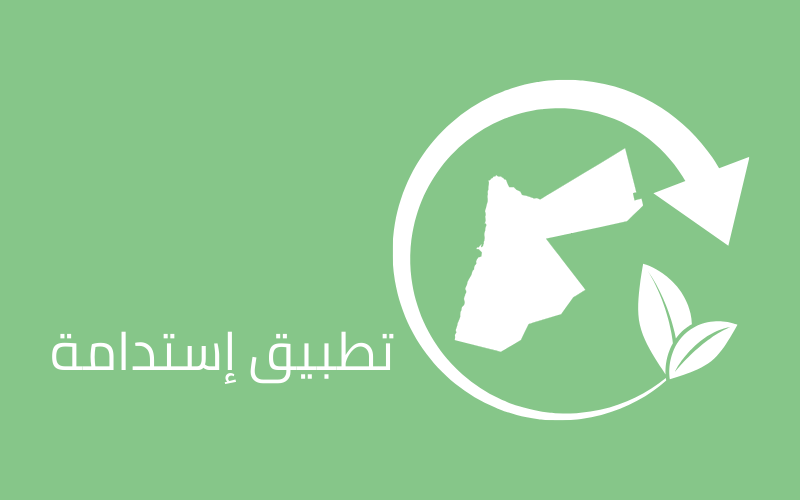
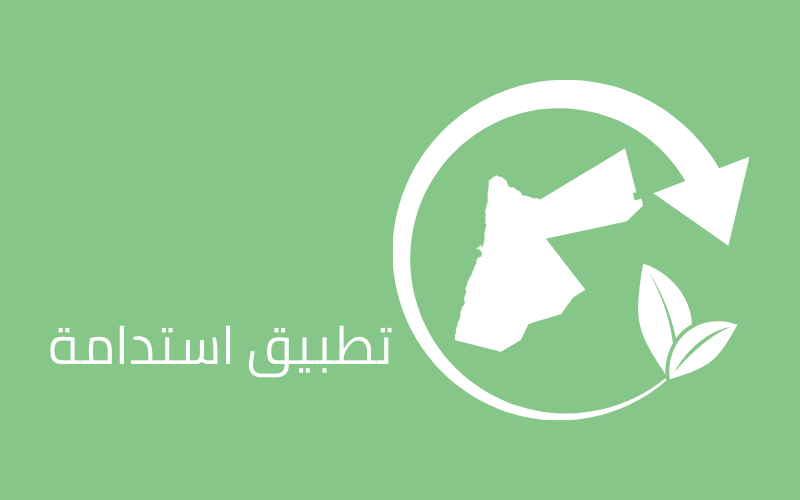
notification

Changed region(s): [[0.0625, 0.66, 0.5, 0.78]]

diff --git a/lib/ui/pages/main_pages/activities.dart b/lib/ui/pages/main_pages/activities.dart
@@ -6,54 +6,60 @@ import 'package:madenati/controllers/mycomplains_controller.dart';
 import 'package:madenati/ui/pages/main_pages/my_volunteering_req.dart';
 import 'package:madenati/ui/widgets/appbar_widget.dart';
 import 'my_complains.dart';
+import 'my_recycling_req.dart';
 
 class Activities extends StatelessWidget {
   Activities({Key? key}) : super(key: key);
 
   @override
   Widget build(BuildContext context) {
-    Size size=MediaQuery.of(context).size;
+    Size size = MediaQuery.of(context).size;
     MyComplainsController myComplainsController = Get.find();
+
     return Scaffold(
-        appBar: defaultAppBar(context: context, title: 'نشاطاتي', isHome: true),
-        body: Obx(
-          () => Column(
-            children: [
-              Container(
-                height: size.height*0.11,
-                decoration: BoxDecoration(color: Colors.grey[100], boxShadow: [
-                  BoxShadow(
-                    color: Colors.grey.withOpacity(0.3),
-                    spreadRadius: 5,
-                    blurRadius: 10,
-                    offset: Offset(0, 5), // changes position of shadow
-                  ),
-                ]),
-                child: Row(
+      appBar: defaultAppBar(context: context, title: 'نشاطاتي', isHome: true),
+      body: Column(
+        children: [
+          Container(
+            height: size.height * 0.11,
+            decoration: BoxDecoration(
+              color: Colors.grey[100],
+              boxShadow: [
+                BoxShadow(
+                  color: Colors.grey.withOpacity(0.3),
+                  spreadRadius: 5,
+                  blurRadius: 10,
+                  offset: Offset(0, 5), // changes position of shadow
+                ),
+              ],
+            ),
+            child: Obx(() => Row(
                   mainAxisAlignment: MainAxisAlignment.center,
                   children: [
                     Expanded(
                       child: Padding(
                         padding: const EdgeInsets.only(
-                            top: 15, left: 15, right: 7.5, bottom: 15),
+                            top: 10, left: 7, right: 3.5, bottom: 10),
                         child: GestureDetector(
                           onTap: () {
-                            myComplainsController.changeIsComplain();
+                            myComplainsController.changeSelectedPage(0);
                           },
                           child: Container(
                             height: 80,
                             decoration: BoxDecoration(
-                                color: myComplainsController.isComplain.value
-                                    ? Colors.green[400]
-                                    : Colors.grey,
-                                borderRadius: BorderRadius.circular(20)),
+                              color:
+                                  myComplainsController.selectedPage.value == 0
+                                      ? Colors.green[400]
+                                      : Colors.grey,
+                              borderRadius: BorderRadius.circular(20),
+                            ),
                             child: Center(
                               child: Text(
                                 'الشكاوي',
                                 style: TextStyle(
                                   color: Colors.white,
                                   fontFamily: 'Cairo',
-                                  fontSize: 18,
+                                  fontSize: 15,
                                 ),
                               ),
                             ),
@@ -64,25 +70,58 @@ class Activities extends StatelessWidget {
                     Expanded(
                       child: Padding(
                         padding: const EdgeInsets.only(
-                            top: 15, left: 7.5, right: 15, bottom: 15),
+                            top: 10, left: 3.5, right: 3.5, bottom: 10),
                         child: GestureDetector(
                           onTap: () {
-                            myComplainsController.changeIsComplain();
+                            myComplainsController.changeSelectedPage(1);
                           },
                           child: Container(
                             height: 80,
                             decoration: BoxDecoration(
-                                color: myComplainsController.isComplain.value
-                                    ? Colors.grey
-                                    : Colors.green[400],
-                                borderRadius: BorderRadius.circular(20)),
+                              color:
+                                  myComplainsController.selectedPage.value == 1
+                                      ? Colors.green[400]
+                                      : Colors.grey,
+                              borderRadius: BorderRadius.circular(20),
+                            ),
                             child: Center(
                               child: Text(
                                 'طلبات التطوع',
                                 style: TextStyle(
                                   color: Colors.white,
                                   fontFamily: 'Cairo',
-                                  fontSize: 18,
+                                  fontSize: 15,
+                                ),
+                              ),
+                            ),
+                          ),
+                        ),
+                      ),
+                    ),
+                    Expanded(
+                      child: Padding(
+                        padding: const EdgeInsets.only(
+                            top: 10, left: 3.5, right: 7, bottom: 10),
+                        child: GestureDetector(
+                          onTap: () {
+                            myComplainsController.changeSelectedPage(2);
+                          },
+                          child: Container(
+                            height: 80,
+                            decoration: BoxDecoration(
+                              color:
+                                  myComplainsController.selectedPage.value == 2
+                                      ? Colors.green[400]
+                                      : Colors.grey,
+                              borderRadius: BorderRadius.circular(20),
+                            ),
+                            child: Center(
+                              child: Text(
+                                'صفحة جديدة',
+                                style: TextStyle(
+                                  color: Colors.white,
+                                  fontFamily: 'Cairo',
+                                  fontSize: 15,
                                 ),
                               ),
                             ),
@@ -91,13 +130,20 @@ class Activities extends StatelessWidget {
                       ),
                     ),
                   ],
-                ),
-              ),
-              myComplainsController.isComplain.value
-                  ? Expanded(child: MyComplains())
-                  : Expanded(child: MyVolunteeringReq())
-            ],
+                )),
           ),
-        ));
+          Expanded(
+            child: Obx(() => IndexedStack(
+                  index: myComplainsController.selectedPage.value,
+                  children: [
+                    MyComplains(),
+                    MyVolunteeringReq(),
+                    MyRecyclingReq(),
+                  ],
+                )),
+          ),
+        ],
+      ),
+    );
   }
 }

diff --git a/lib/constants/texts.dart b/lib/constants/texts.dart
@@ -2,7 +2,7 @@ String volunteeringText =
     'التطوع لصالح وزارة البيئة في الأردن يمثل فرصة ممتازة للمواطنين الراغبين في المساهمة في الحفاظ على البيئة والمساهمة في الجهود الوطنية للحفاظ على جمال ونظافة البيئة الطبيعية في المملكة. يمكن للمتطوعين المشاركة في مجموعة متنوعة من الأنشطة البيئية، مثل زراعة الأشجار والنباتات في الحدائق العامة، والمساعدة في إزالة النفايات والمخلفات من الأماكن العامة، ومراقبة الحياة البرية، والتوعية بمشاكل البيئة. \n\nتعتبر جهود التطوع للحفاظ على البيئة في الأردن مهمة جداً لمواجهة التحديات البيئية الحالية. بفضل التعاون المستمر بين المتطوعين ووزارة البيئة، يمكن تحقيق تحسينات كبيرة في البيئة والمساهمة في خلق مجتمع أكثر نظافة وصحة. من خلال القيام بأنشطة مثل تجميل الحدائق وإزالة النفايات، يمكن للتطوعين أن يكونوا جزءًا من الحلول لمشاكل البيئة في الأردن. \n\nلذا، إذا كنت مهتمًا بالمشاركة في جهود الحفاظ على البيئة ودعم جهود وزارة البيئة في الأردن، فلديك فرصة رائعة للتطوع وإحداث تأثير إيجابي كبير. يتطلب التطوع فقط العزيمة والرغبة في المساهمة في جعل البيئة أفضل مكان للجميع. بفضل جهود المتطوعين، يمكننا العمل معًا للمحافظة على الطبيعة الجميلة وتوفير مستقبل أفضل للأجيال القادمة.';
 
 String aboutAppText =
-    'يعد تطبيق "إستدامة" رفيقك المثالي في رحلتك نحو خدمة البيئة والمشاركة في جعل عالمنا أفضل. يوفر التطبيق فرصًا متعددة للتطوع والمساهمة في حفظ وتحسين البيئة والبنية التحتية البيئية في مجتمعك. سواء كنت ترغب في زراعة الأشجار، أو إزالة النفايات، أو حتى التبليغ عن قضايا بيئية مثل تلوث الهواء أو نقص حاويات القمامة، يمكنك القيام بكل ذلك من خلال تطبيق "إستدامة" بكل سهولة.\n\nتتيح لك الواجهة السهلة والبسيطة في التطبيق تصفح العديد من الفرص التطوعية المتاحة في منطقتك والمساهمة بشكل فعال في جعل المجتمع مكانًا أفضل للجميع. يمكنك أيضًا استخدام التطبيق لتقديم الشكاوي حول قضايا البيئة التي تواجهها، مما يساعد في تحسين جودة الحياة والبيئة في محيطك. بالإضافة إلى ذلك، يمكنك المشاركة في جهود إعادة التدوير للمواد والمساهمة في استدامة الموارد الطبيعية. \n\nتطبيق "إستدامة" هو شريكك القوي في رحلتك نحو خدمة المجتمع والبيئة، ويسهل عليك الوصول إلى الفرص والأنشطة التي تهمك، والمساهمة بشكل فعّال في تحقيق تغيير إيجابي في عالمنا البيئي.';
+    'يعد تطبيق "استدامة" رفيقك المثالي في رحلتك نحو خدمة البيئة والمشاركة في جعل عالمنا أفضل. يوفر التطبيق فرصًا متعددة للتطوع والمساهمة في حفظ وتحسين البيئة والبنية التحتية البيئية في مجتمعك. سواء كنت ترغب في زراعة الأشجار، أو إزالة النفايات، أو حتى التبليغ عن قضايا بيئية مثل تلوث الهواء أو نقص حاويات القمامة، يمكنك القيام بكل ذلك من خلال تطبيق "استدامة" بكل سهولة.\n\nتتيح لك الواجهة السهلة والبسيطة في التطبيق تصفح العديد من الفرص التطوعية المتاحة في منطقتك والمساهمة بشكل فعال في جعل المجتمع مكانًا أفضل للجميع. يمكنك أيضًا استخدام التطبيق لتقديم الشكاوي حول قضايا البيئة التي تواجهها، مما يساعد في تحسين جودة الحياة والبيئة في محيطك. بالإضافة إلى ذلك، يمكنك المشاركة في جهود إعادة التدوير للمواد والمساهمة في استدامة الموارد الطبيعية. \n\nتطبيق "استدامة" هو شريكك القوي في رحلتك نحو خدمة المجتمع والبيئة، ويسهل عليك الوصول إلى الفرص والأنشطة التي تهمك، والمساهمة بشكل فعّال في تحقيق تغيير إيجابي في عالمنا البيئي.';
 
 String recyclingText =
     'إعادة التدوير هي ممارسة بيئية ضرورية للحفاظ على جمال وصحة الأردن. تواجه الأردن تحديات بيئية متزايدة نتيجة لزيادة النفايات واستنزاف الموارد الطبيعية. إعادة التدوير تلعب دورًا حيويًا في تقليل النفايات والمحافظة على الموارد. بالمشاركة في عمليات إعادة التدوير، نساهم جميعًا في الحفاظ على جوانب الطبيعة الرائعة للأردن، مثل البيئات الصحراوية والأماكن السياحية الرائعة. \n\nتعتبر المشاركة في عمليات إعادة التدوير في الأردن جزءًا لا يتجزأ من الجهود الوطنية للحفاظ على البيئة وتحقيق التنمية المستدامة. بالتعاون مع وزارة البيئة ومنظمات بيئية محلية، يمكن للمواطنين والمقيمين في الأردن المساهمة بشكل فعال في جعل الأردن أكثر نظافة وصحة. من خلال إعادة التدوير، نشارك في بناء مستقبل أفضل للأجيال القادمة ونحمي تراثنا البيئي الغني في هذا البلد الرائع.';

diff --git a/lib/ui/pages/main_pages/my_complains.dart b/lib/ui/pages/main_pages/my_complains.dart
@@ -58,13 +58,14 @@ class MyComplains extends StatelessWidget {
                                       child: separator(),
                                     ),
                                 itemBuilder: (context, index) {
-                                  if (snapshot.data['data'][index].length != 0) {
+                                  if (snapshot.data['data'][index].length !=
+                                      0) {
                                     controller.complainList.value = snapshot
                                         .data['data']
                                         .map<ComplainsModel>((complainData) =>
                                             ComplainsModel.fromJson(
                                                 complainData))
-                                        .toList(); 
+                                        .toList();
                                     return Obx(() =>
                                         controller.complainList.isNotEmpty
                                             ? myComplainItem(
@@ -97,7 +98,7 @@ class MyComplains extends StatelessWidget {
             'لم تقم بتقديم أي شكوى حتى الآن',
             style: TextStyle(
               fontFamily: 'Cairo',
-              fontSize: 15,
+              fontSize: 13,
             ),
           ),
           SizedBox(
@@ -106,7 +107,7 @@ class MyComplains extends StatelessWidget {
           Icon(
             Icons.warning,
             color: Colors.red,
-            size: 30,
+            size: 27,
           )
         ],
       ),

diff --git a/lib/firebase_messeging.dart b/lib/firebase_messeging.dart
@@ -1,0 +1,20 @@
+import 'dart:developer';
+import 'package:firebase_messaging/firebase_messaging.dart';
+
+final FirebaseMessaging firebaseMessaging = FirebaseMessaging.instance;
+
+void initFirebaseMessaging() {
+  firebaseMessaging.getToken().then((token) {
+    log('FCM Token: $token');
+  });
+
+  FirebaseMessaging.onMessage.listen((RemoteMessage message) {
+    // Handle when the app is in the foreground and receives a notification
+    log('FCM Message: ${message.notification?.body}');
+  });
+
+  FirebaseMessaging.onMessageOpenedApp.listen((RemoteMessage message) {
+    // Handle when the user taps the notification while the app is in the background
+    log('FCM Message opened app: ${message.notification?.body}');
+  });
+}

diff --git a/lib/ui/pages/main_pages/my_recycling_req.dart b/lib/ui/pages/main_pages/my_recycling_req.dart
@@ -4,10 +4,10 @@ import 'package:flutter/widgets.dart';
 import 'package:get/get.dart';
 import 'package:madenati/controllers/mycomplains_controller.dart';
 
-class MyVolunteeringReq extends StatelessWidget {
-  MyVolunteeringReq({super.key});
+class MyRecyclingReq extends StatelessWidget {
+  MyRecyclingReq({super.key});
 // THIS PAGE IS CONNECTED TO THE MYT COMPLAINS CONTROLLER
-// MYVOLUNTEERING AND MYCOMPLAINS AND RECYCLING ORDERS BELONG TO THE MY COMPLAINS CONTROLLER
+// MYRecycling AND MYCOMPLAINS AND RECYCLING ORDERS BELONG TO THE MY COMPLAINS CONTROLLER
   MyComplainsController complainsController = Get.find();
   @override
   Widget build(BuildContext context) {

diff --git a/lib/main.dart b/lib/main.dart
@@ -18,6 +18,7 @@ import 'package:madenati/ui/pages/on_boarding.dart';
 import 'controllers/complains_controller.dart';
 import 'controllers/recycling_controller.dart';
 import 'db/local/shared_preference.dart';
+import 'firebase_messeging.dart';
 import 'ui/pages/authentication/login.dart';
 import 'ui/pages/main_pages/complains.dart';
 import 'ui/pages/main_pages/profile.dart';
@@ -33,6 +34,7 @@ void main() async {
   await Firebase.initializeApp(
     options: DefaultFirebaseOptions.currentPlatform,
   );
+  initFirebaseMessaging();
   runApp(const myApp());
 }
 

diff --git a/lib/controllers/mycomplains_controller.dart b/lib/controllers/mycomplains_controller.dart
@@ -9,10 +9,10 @@ import 'package:madenati/ui/widgets/toast_widget.dart';
 // import '../constants/hotlinks.dart';
 
 class MyComplainsController extends GetxController {
-  RxBool isComplain = true.obs;
+  RxInt selectedPage = 0.obs;
 
-  void changeIsComplain() {
-    isComplain.value = !isComplain.value;
+  void changeSelectedPage(int index) {
+    selectedPage.value = index;
   }
 
   RxList<ComplainsModel> complainList = [ComplainsModel()].obs;
@@ -56,6 +56,4 @@ class MyComplainsController extends GetxController {
     }
     return response;
   }
-
-  
 }

diff --git a/lib/ui/pages/main_pages/home.dart b/lib/ui/pages/main_pages/home.dart
@@ -1,9 +1,6 @@
 import 'package:flutter/material.dart';
- 
 import 'package:madenati/constants/carsousel_items.dart';
- 
 import 'package:madenati/ui/widgets/carousel_slider_widget.dart';
-import '../../../constants/carsousel_items.dart';
 import '../../../models/gridmodel.dart';
 import '../../widgets/appbar_widget.dart';
 import '../../widgets/grid_widget.dart';
